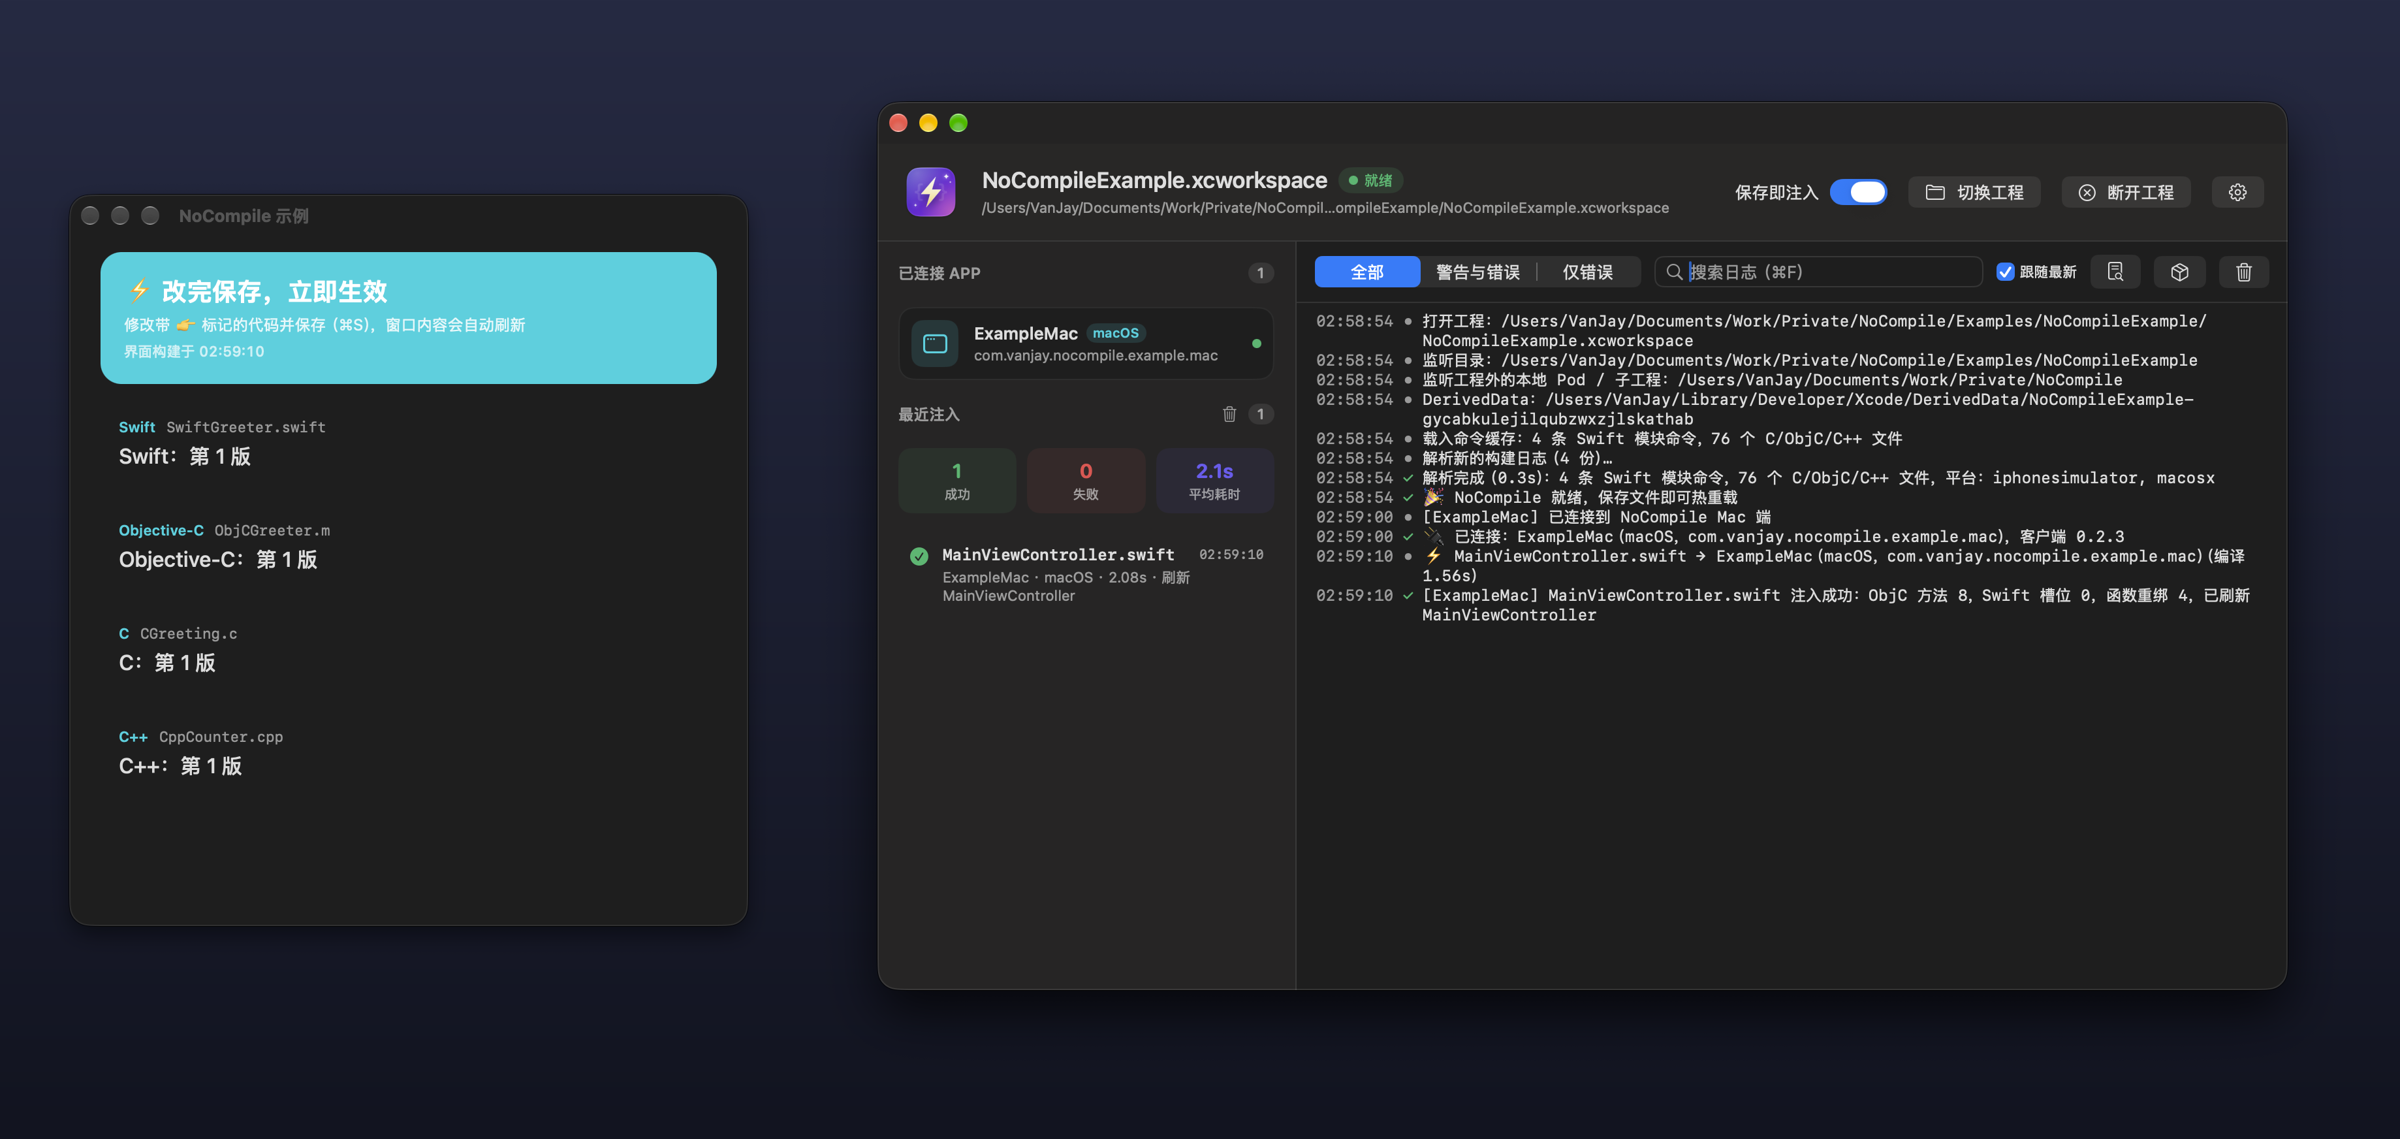
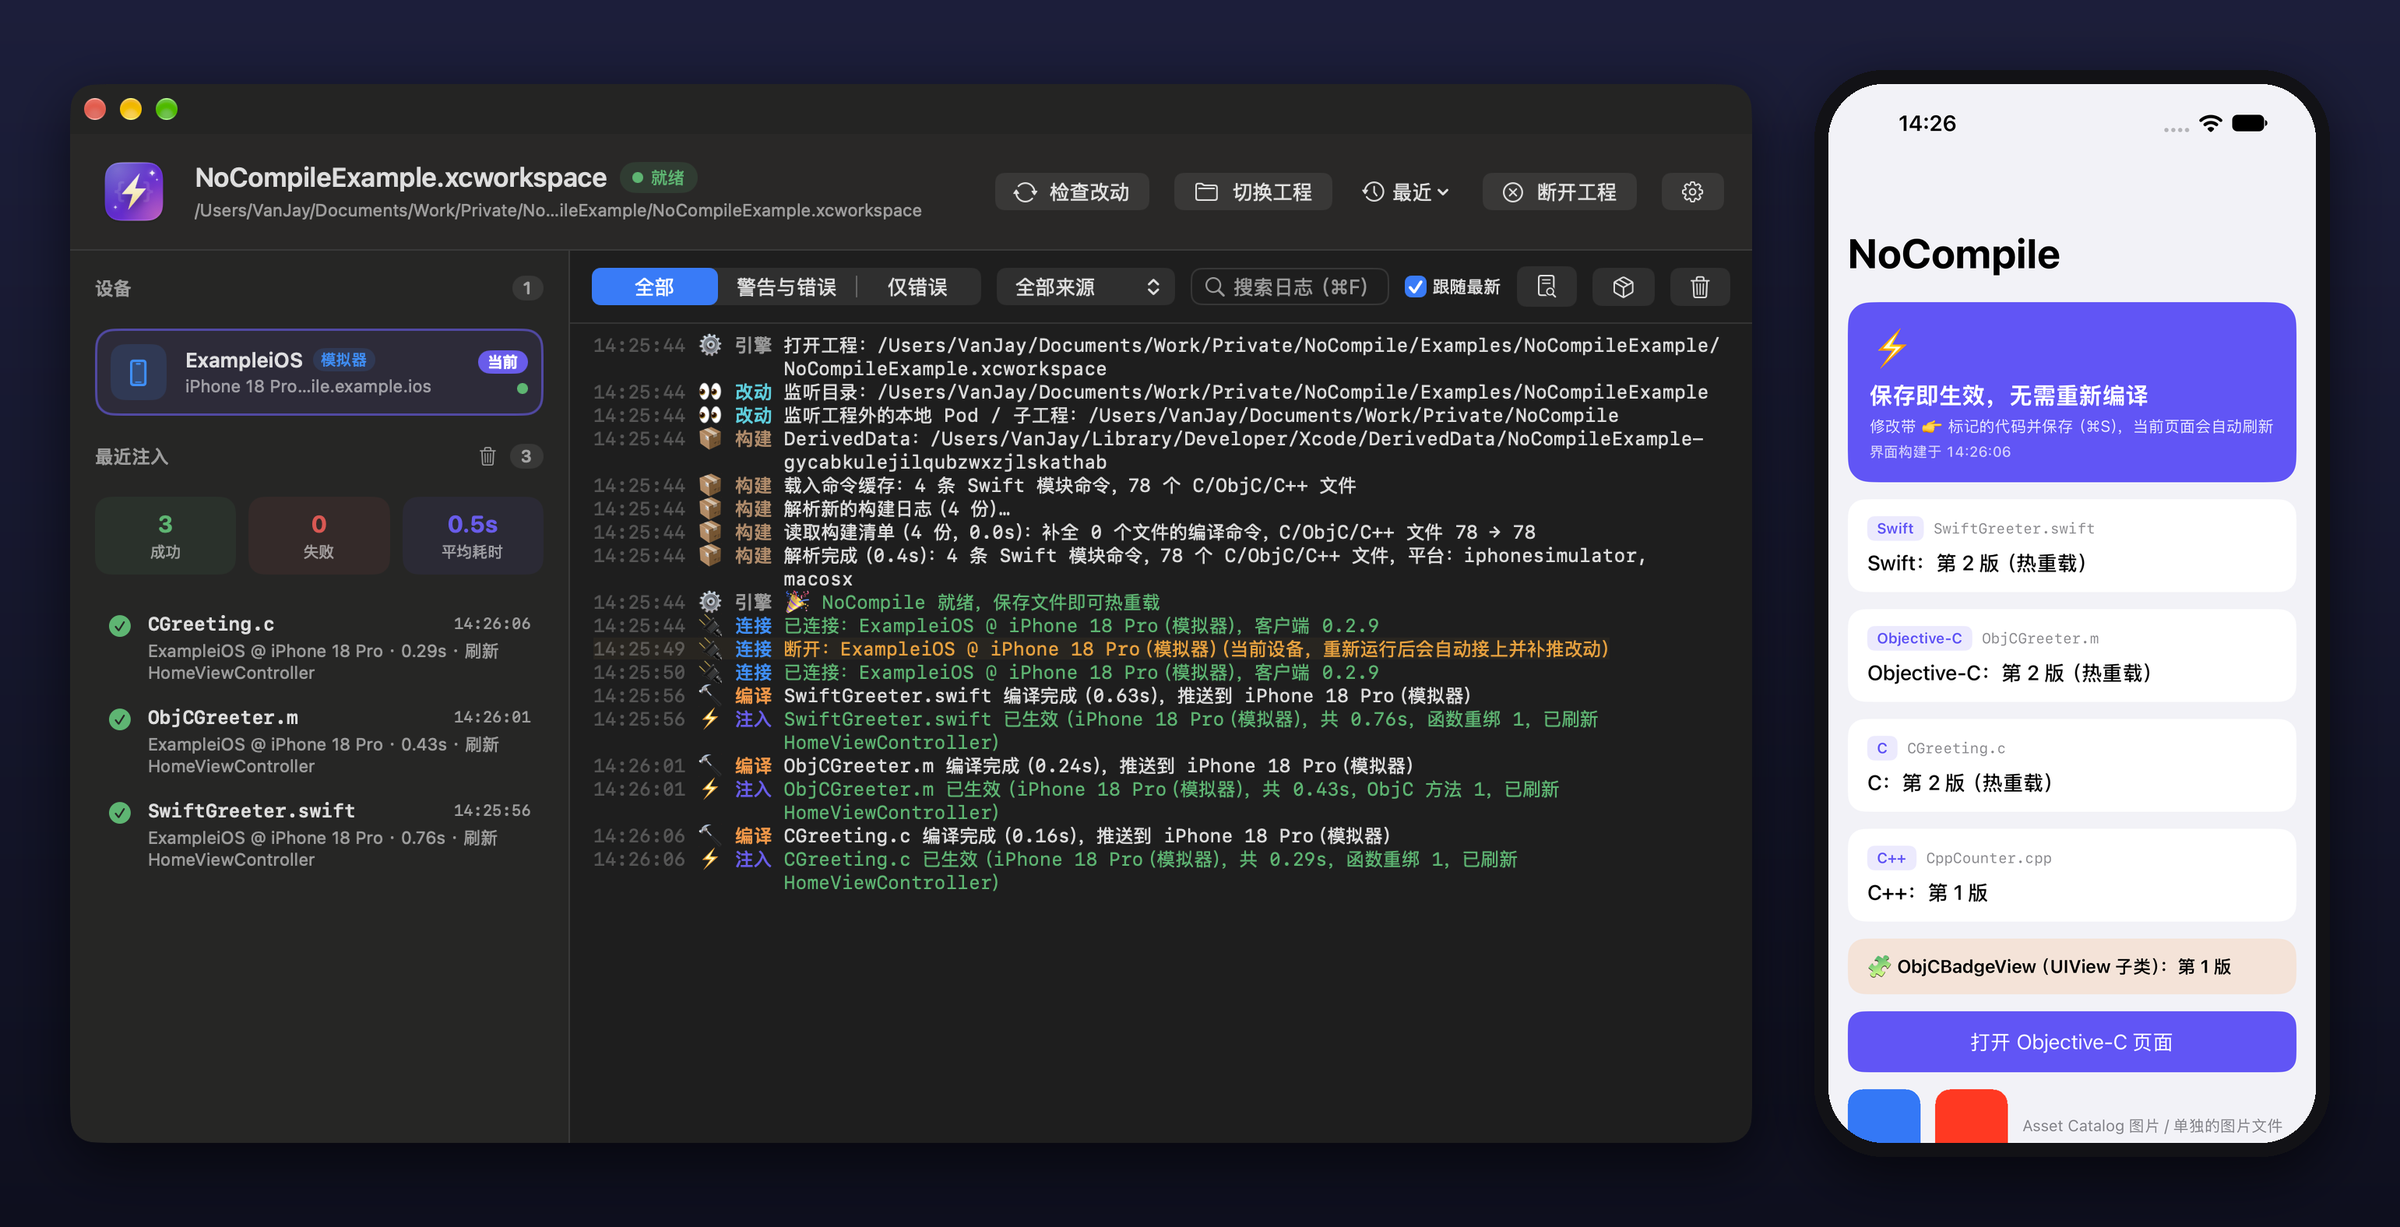
版本号更新为 0.2.9，更新 README 主界面截图、下载链接与文档，补充发布说明

diff --git a/README.md b/README.md
@@ -8,11 +8,17 @@
 
 修改代码，保存，立即在运行中的 App 看到效果，无需等待整个工程重新编译。
 
-[下载最新版](https://github.com/wangwanjie/NoCompile/releases/latest) · [接入指南](Docs/Integration.md) · [架构与原理](Docs/Architecture.md) · [示例工程](Examples/NoCompileExample)
+**下载：[Apple 芯片（arm64）](https://github.com/wangwanjie/NoCompile/releases/latest/download/NoCompile_arm64.dmg) · [Intel（x86_64）](https://github.com/wangwanjie/NoCompile/releases/latest/download/NoCompile_x86_64.dmg)**
+
+[所有版本](https://github.com/wangwanjie/NoCompile/releases) · [接入指南](Docs/Integration.md) · [架构与原理](Docs/Architecture.md) · [示例工程](Examples/NoCompileExample)
 
 </div>
 
-<img src="Docs/images/Screenshot.png" alt="NoCompile 控制台与 Mac 示例 App：保存源文件后，约 1.5 秒即在运行中的 App 里生效">
+## 主界面
+
+<img src="Docs/images/Screenshot.png" alt="NoCompile 控制台与 iOS 模拟器中的示例 App：分别修改 Swift、Objective-C、C 文件并保存，0.3～0.8 秒即在运行中的 App 里生效">
+
+控制台左侧是已连接的 App（模拟器、真机、macOS 各一台设备一个 App）与最近的注入记录（成功 / 失败数、平均耗时；右键可在 Xcode 中打开对应文件，编译失败时直接定位到出错行），右侧是按类别着色、可筛选和搜索的日志。顶栏可切换工程、开关「保存即注入」、手动「检查改动」。菜单栏的 ⚡ 图标提供同样的入口。
 
 ---
 
@@ -51,7 +57,7 @@
 └─────────────────────┘                          └──────────────────────┘
 ```
 
-- **Mac 端引擎**（`NoCompileKit`）：定位 DerivedData、解析 `.xcactivitylog`、单文件重编、链接、签名、通过 socket 推送。被命令行工具 `nocompile` 和菜单栏 App `NoCompileApp` 共用。
+- **Mac 端引擎**（`NoCompileKit`）：定位 DerivedData、解析 `.xcactivitylog`、单文件重编、链接、签名、通过 socket 推送。被命令行工具 `nocompile` 和菜单栏 App `NoCompile.app` 共用。
 - **客户端**（`NoCompileClient`）：以 Debug-only 的库形式链入 App（SPM / CocoaPods / Carthage），或以 bundle 形式在运行时加载，自动连接 Mac 端，收到 dylib 后在进程内完成替换。
 
 详见 [Docs/Architecture.md](Docs/Architecture.md)。
@@ -60,7 +66,14 @@
 
 ### 1. 安装 NoCompile
 
-从 [Releases](https://github.com/wangwanjie/NoCompile/releases/latest) 按芯片下载对应的 DMG：Apple 芯片选 `NoCompile_vX.Y.Z_arm64.dmg`，Intel 选 `NoCompile_vX.Y.Z_x86_64.dmg`，拖入「应用程序」即可。安装包已经过 Apple 公证，后续版本会通过 Sparkle 自动更新。
+按芯片下载对应的 DMG，拖入「应用程序」即可：
+
+| 芯片 | 下载（始终是最新版） |
+|---|---|
+| Apple 芯片（M 系列） | [NoCompile_arm64.dmg](https://github.com/wangwanjie/NoCompile/releases/latest/download/NoCompile_arm64.dmg) |
+| Intel | [NoCompile_x86_64.dmg](https://github.com/wangwanjie/NoCompile/releases/latest/download/NoCompile_x86_64.dmg) |
+
+不确定芯片类型：点击屏幕左上角的苹果菜单 → 关于本机，「芯片」一栏显示 Apple M 系列选 arm64，显示 Intel 选 x86_64。每个 Release 都附带 `SHA256SUMS.txt` 供核对。安装包已经过 Apple 公证，后续版本通过 Sparkle 自动更新，且只会收到同架构的更新；在 Apple 芯片上误装了 Intel 版时，下次更新会自动换成 arm64 版本。
 
 也可以从源码构建（需要 [XcodeGen](https://github.com/yonaskolb/XcodeGen)）：
 
@@ -128,11 +141,11 @@ Scripts/build-app.sh --open
 Scripts/build-app.sh --open --project /path/to/YourApp.xcworkspace
 ```
 
-日志可在 ⚡ → 显示日志 查看，同时写入 `~/Library/Logs/NoCompile/NoCompile.log`。遇到问题时点控制台日志栏的 📦 按钮（或菜单 ⚡ → 导出诊断包…）导出 zip，里面有各环节的诊断日志、编译失败的完整命令与输出、主线程卡顿时自动采集的调用栈，发给开发者即可排查。
+日志可在 ⚡ → 打开控制台 查看，同时写入 `~/Library/Logs/NoCompile/NoCompile.log`。遇到问题时点控制台日志栏的 📦 按钮（或菜单 ⚡ → 导出诊断包…）导出 zip，里面有各环节的诊断日志、编译失败的完整命令与输出、主线程卡顿时自动采集的调用栈，发给开发者即可排查。
 
 然后 `Command+R` 运行你的 App。编辑任意源文件并保存，几秒后就能在 App 看到改动生效。
 
-状态栏图标颜色：绿色表示就绪，黄色表示执行中，红色表示出错。
+状态栏图标颜色：跟随菜单栏文字颜色表示就绪，橙色表示正在编译 / 注入，红色表示出错，灰色表示未在监听。
 
 ### 验证环境
 
@@ -169,7 +182,7 @@ python3 E2E/run_e2e.py --clean
 
 - 必须先在 Xcode 完整构建过一次，NoCompile 才能从构建日志拿到编译命令。
 - storyboard、xib、图片与新增源文件也支持热重载，范围与限制见 [接入指南](Docs/Integration.md#资源与新增文件)。
-- 真机注入需要 iOS 13+，并用与 App 一致的开发者身份签名（NoCompile 会从构建日志自动提取签名身份）。
+- 支持 iOS / tvOS 15+（Xcode 27 的最低部署目标）、macOS 12+，Mac Catalyst 为实验性支持；真机注入需用与 App 一致的开发者身份签名（NoCompile 会从构建日志自动提取签名身份）。
 - 暂不兼容 Whole Module Optimization 和编译缓存（`COMPILATION_CACHE_ENABLE_CACHING`），Debug 配置默认关闭它们即可。
 
 ## SwiftUI
@@ -188,27 +201,45 @@ Sources/
   nocompile/         命令行工具
 App/                 NoCompile.app（Xcode 工程由 project.yml 生成，集成 Sparkle）
 Examples/            iOS / macOS 示例工程（workspace 多模块 + 端到端自测）
-Scripts/             构建、图标、打包、公证、发布脚本
+Tests/               单元测试（swift test）
+Scripts/             构建、版本号、图标、打包、公证、发布脚本
 Docs/                架构、接入指南、发布说明
 ```
 
+## 开发与测试
+
+```bash
+swift build                # 构建引擎、客户端与命令行工具
+swift test                 # 单元测试：引擎（日志解析、分词、协议、头文件分析、版本一致性等）与客户端（帧收发、ObjC 注入、布局变化保护）
+Scripts/build-app.sh --open   # 构建并启动 NoCompile.app
+```
+
+改动引擎或客户端后，再用示例工程的端到端自测回归（见上文「试一试：示例工程」）。
+
 ## 发布新版本
 
-1. 修改 `App/project.yml` 中的 `MARKETING_VERSION` 与 `CURRENT_PROJECT_VERSION`，并同步 `NoCompile.podspec` 的 `s.version` 与 `Client/project.yml` 的 `MARKETING_VERSION`。
-2. 分别构建、签名并公证 arm64 与 x86_64 两个 DMG（会先用 `Scripts/build-client-bundles.sh` 构建通用的客户端 bundle 并放进 App；`--arch arm64` 可只构建单个架构）：
+1. 改版本号：一次改齐 App、客户端工程、podspec 与两端协议常量，构建号自动加 1；写好 `Docs/ReleaseNotes/X.Y.Z.md`：
+
+   ```bash
+   Scripts/bump_version.sh X.Y.Z
+   ```
+
+2. 分别构建、签名并公证 arm64 与 x86_64 两个 DMG。脚本会先构建五个客户端 bundle（缺任一 SDK 即失败），把 App 内的 Sparkle 等依赖精简为单一架构并逐个校验，签名后做严格校验，生成 DMG 与 `.sha256`：
 
    ```bash
    Scripts/build_dmg.sh
    ```
 
-3. 创建 GitHub Release、上传两个 DMG，并更新 Sparkle feed：各架构的 App 分别读取 `appcast-arm64.xml` / `appcast-x86_64.xml`；`appcast.xml` 同时列出两个架构的包，供 0.2.3 及更早的通用版升级：
+3. 提交并推送版本号改动（Release 的 tag 打在本地 HEAD 上，HEAD 必须已推送），然后创建 GitHub Release：上传两个 DMG、不带版本号的 `NoCompile_<arch>.dmg`（README 的固定下载地址）与 `SHA256SUMS.txt`，发布说明末尾自动追加下载表格，并更新 Sparkle feed（已发布的旧条目原样保留，发布后自检下载地址与文件大小）：
 
    ```bash
-   Scripts/publish_github_release.sh --notes-file Docs/ReleaseNotes/X.Y.Z.md
+   HTTPS_PROXY=http://127.0.0.1:7890 Scripts/publish_github_release.sh --notes-file Docs/ReleaseNotes/X.Y.Z.md
    ```
 
+   各架构的 App 分别读取 `appcast-arm64.xml` / `appcast-x86_64.xml`；`appcast.xml` 同时列出两个架构的包，供 0.2.3 及更早的通用版升级。`--draft` / `--prerelease` 不更新 feed。
+
 4. 提交并推送 `appcast.xml`、`appcast-arm64.xml`、`appcast-x86_64.xml`，已安装的用户会收到更新提示。
-5. 发布 CocoaPods（tag 为 `vX.Y.Z`，由上一步的 Release 创建）：
+5. 发布 CocoaPods：
 
    ```bash
    pod trunk push NoCompile.podspec

diff --git a/Docs/ReleaseNotes/0.2.9.md b/Docs/ReleaseNotes/0.2.9.md
@@ -1,0 +1,49 @@
+## NoCompile 0.2.9
+
+本版本是一次全面的代码审查与加固：修复了连接、日志解析、资源热重载、注入中的多处缺陷，补齐了单元测试，并改进了按芯片分发的安装包。
+
+### 修复
+
+- **私有类的改动不生效**：`private` / `fileprivate` 的 Swift 类，以及开启 `-fvisibility=hidden` 或 `EXPORTED_SYMBOLS_FILE` 的工程里的 ObjC 类，改了方法体后注入报「未替换任何实现」。现在改用符号表中的地址定位这些类
+- **真机上修改颜色集（.colorset）必定失败**，提示「资源包缺少文件」
+- 名称带设备后缀的资源（如 `icon@2x~ipad.png`、`Main~iphone.xib`）保存后不触发热重载
+- 颜色集以 0–255 整数填写分量时颜色错误
+- `swiftc -###` 输出中单引号包裹的参数（如 `-Xcc '-DM=a\b'`）里的反斜杠被吞掉，宏值被改写
+- 推送途中连接断开时，改动被误记为「已应用」，同一进程重连后不再补推。现在收到 App 回报后才登记
+- Wi-Fi 连接在 Mac 休眠或设备断网后变成半开连接，两端都不会重连。两端已开启 TCP 保活，约 1 分钟内判定断开并自动重连
+- 模拟器 App 刚连上就崩溃等情况下，Mac 端停止接受所有新连接，之后的 App 都连不上
+- 切换工程的瞬间连上的连接不会被关闭、一直占着设备
+- 构建日志解析中途失败（超时、Xcode 正在写入）后被记为已解析，之后一直提示「请先完整构建」
+- 偏好设置在主线程修改、在引擎线程读取的数据竞争，可能导致崩溃
+- tvOS 真机的编译命令被归为未知平台，无法热重载
+- 自定义了带连字符配置名（如 `Debug-Staging`）的 macOS 工程，资源找不到所属的 bundle
+- 消息中含无法序列化为 JSON 的内容时 App 或 Mac 端崩溃
+- 在主线程发起注入时可能死锁；`+load` 中用 `method_setImplementation` / `class_replaceMethod` 写的 hook 在注入时被重复安装
+- 方法实现的符号被剥离时，新实现可能被写到无关的方法上
+- 真机写入 dylib 失败（存储空间不足）时给出误导性的错误
+- 打开已被移动或删除的最近工程时没有任何提示；恢复默认设置后 DerivedData、排除规则不生效；「登录时自动启动」开关会重复注册 / 注销；系统睡眠唤醒后被误判为主线程卡顿
+- 命令行工具静默忽略拼错的参数，现在报错退出；支持 `nocompile <工程路径>`、`--version`，Ctrl+C 时先停止引擎再退出
+
+### 新功能
+
+- 注入记录右键「在 Xcode 中打开」，编译失败时直接定位到第一条错误所在的行
+- Mac Catalyst App（实验性）：与 macOS App 一样连接本机 NoCompile
+- 在 Apple 芯片的 Mac 上运行 Intel 版时给出提示，检查更新时自动换成 arm64 版本
+- 最近工程菜单标出已不存在的工程，并可一键清空
+- 偏好设置显示当前安装包的架构
+
+### 分发
+
+- 每个 Release 额外提供不带版本号的 `NoCompile_arm64.dmg` / `NoCompile_x86_64.dmg`，README 中的下载链接始终指向最新版，并附 `SHA256SUMS.txt`
+- arm64 包中的 Sparkle 等依赖也精简为单一架构，打包时逐个校验所有二进制的架构、客户端 bundle 的完整性与版本
+- Sparkle feed 保留全部历史版本，发布后自动校验下载地址
+
+### 测试
+
+- 新增单元测试（`swift test`）：构建日志解析、命令分词、协议帧编解码、构建清单、头文件改动分析、版本号一致性，以及客户端的帧收发、ObjC 方法替换、布局变化保护等
+
+### 升级提示
+
+- 客户端修订号没有变化，已编译的 App 仍可正常热重载。要用上客户端侧的修复（私有类、颜色集、Wi-Fi 保活等），请重新编译运行 App；用「拷贝 bundle」方式接入的，确认这次构建执行了 `nocompile_copy_bundle.sh`
+
+详见 [接入指南](https://github.com/wangwanjie/NoCompile/blob/main/Docs/Integration.md)。

diff --git a/Docs/Integration.md b/Docs/Integration.md
@@ -219,9 +219,13 @@ nocompile --project /path/to/YourApp.xcworkspace
 
 0. 客户端必须打进 App 包里：用方式 A / B / C / E / G。方式 D、F 从 Mac 路径加载，真机上无效。
 1. 用数据线连接设备（USB 为主通道，走 usbmuxd）。
-2. 真机注入需要 iOS 13+。
+2. 真机注入需要 iOS / tvOS 15+（Xcode 27 的最低部署目标）。
 3. dylib 要用与 App 一致的开发者身份签名。NoCompile 会从构建日志自动提取签名身份，所以需要先在 Xcode 成功跑过一次真机构建。
-4. 若要走 Wi-Fi，设置环境变量 `NOCOMPILE_HOST=<Mac 的 IP>` 后再运行 App。
+4. 若要走 Wi-Fi，设置环境变量 `NOCOMPILE_HOST=<Mac 的 IP>` 后再运行 App。两端都开启了 TCP 保活：Mac 休眠、设备断网等情况下约 1 分钟内判定断开，App 随后自动重连，期间漏掉的改动会补推。
+
+## Mac Catalyst（实验性）
+
+Catalyst App 与 macOS App 一样主动连接本机的 NoCompile（端口 21890），按 `-target …-macabi` 的编译命令重编，使用临时签名，接入方式同 iOS（SPM / CocoaPods / bundle 均可）。
 
 ## 界面如何刷新（零侵入）
 
